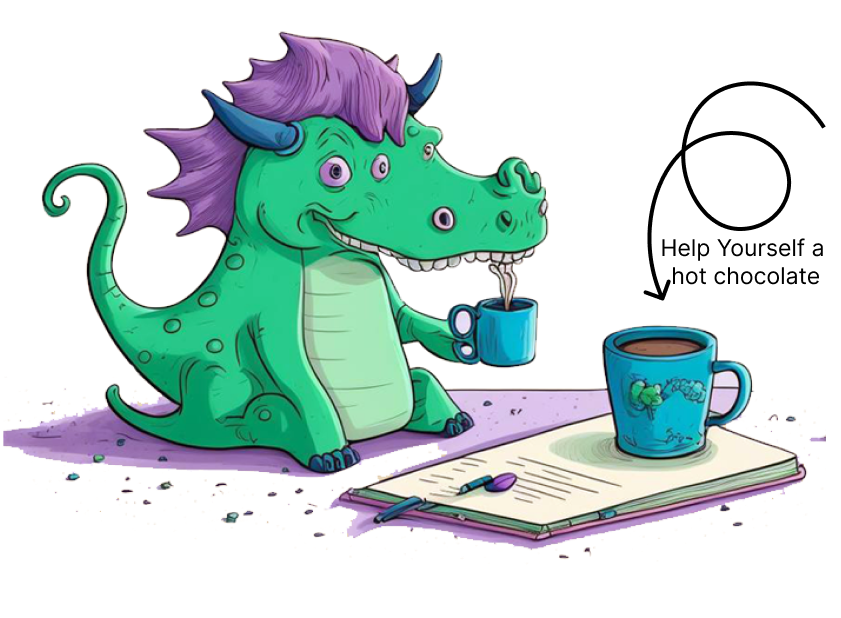
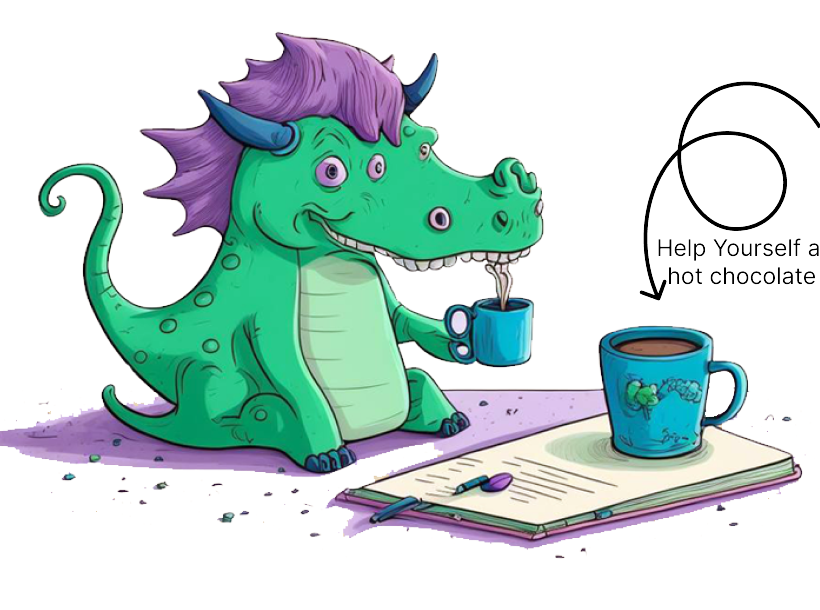
regbutton map responsive adapted, minor retouch

Changed region(s): [[0.0, 0.0311, 1.0, 0.9033], [0.2439, 0.8098, 0.3049, 0.8721], [0.1524, 0.8098, 0.1829, 0.841]]

diff --git a/fenjan/static/fenjan/styles.css b/fenjan/static/fenjan/styles.css
@@ -6,6 +6,17 @@ html, body {
     background-color: #E0D8CD;
 }
 
+.main {
+    max-width: 100%;
+    width: 100%;
+    display: grid;
+    justify-items: center;
+}
+/* 
+* {
+    box-sizing: border-box;
+  }
+   */
 /* The alert message box */
 .stored_messages {
     position: absolute;
@@ -35,15 +46,12 @@ html, body {
     color: black;
   }
 
-.main {
-    width: 100%;
-    display: grid;
-    justify-items: center;
-}
-
 
 /* /////////////////////////////////////////////////////// */
 /* Page 1 */
+.dina-1m {
+    display: none;
+}
 
 .p1 {
     display: inline-grid;
@@ -152,10 +160,6 @@ img.Redo-icon {
 /* //////////////////////////////////////////////////////// */
 /* Page 3 */
 
-.p3 .dina-5m {
-    display: none;
-}
-
 .p3 {
     position: relative;
     display: inline-grid;
@@ -180,17 +184,8 @@ img.Redo-icon {
 .p3 .dina {
     grid-area: dina;
 }
-/* //////////////////////////////////////////////////////// */
 
-/* form, input, label, textarea, select { 
-    margin: 0;
-    padding: 0;
-    border: none;
-    font: inherit;
-    color: inherit;
-    background: none;
-    box-sizing: border-box;
-} */
+/* //////////////////////////////////////////////////////// */
 
 .p3 .registration {
     position: relative;
@@ -243,7 +238,7 @@ img.Redo-icon {
 }
 .p3 .registration .name-input {
     /* display: inline-block; */
-    position: relative;
+    /* position: relative; */
     grid-area: name;
     align-self: center;
     justify-self: center;
@@ -337,7 +332,6 @@ img.Redo-icon {
 }
 
 
-
 /* //////////////////////////////////////////////////////// */
 /* //////////////////////////////////////////////////////// */
 
@@ -354,7 +348,7 @@ img.Redo-icon {
         display: grid;
         justify-items: center;
     }
-    .side, .cups, .dina {
+    .side, .cups{
         display: none;
     }
 
@@ -408,10 +402,10 @@ img.Redo-icon {
         / 18rem 21rem;
     }
     
-    .p1 .dina-1m {
+    .p1 .dina {
         grid-area: dina-1m;
-        margin-top: 3.6rem;
         width: 18rem;
+        margin-top: 3.6rem;
     }
     .p1 .wellhead {
         grid-area: well;
@@ -457,7 +451,7 @@ img.Redo-icon {
     .p2 .intro {
         display: none;
     }
-    .p2 .dina-2m, .intro-2 {
+    .intro-2 {
         display: block;
     }
 
@@ -474,9 +468,10 @@ img.Redo-icon {
         text-align: justify;
         font-size: 1.5rem;
     }
-    .p2 .dina-2m {
+    .p2 .dina {
         /* display: inline; */
         grid-area: dina-2m;
+        width: 20rem;
         margin-top: 0rem;
         margin-left: -2rem;
         justify-self: end;
@@ -496,6 +491,7 @@ img.Redo-icon {
     .p3-m .dina-3m {
         /* display: inline; */
         grid-area: dina-3m;
+        width: 19rem;
         margin-top: 0rem;
         margin-left: 0rem;
         justify-self: end;
@@ -513,7 +509,7 @@ img.Redo-icon {
   
 /* //////////////////////////////////////////////////////// */
 /* Page 4m for Mobile */
-    .p4-m, .p4-m .dina-4m, .p4-m .intro-4m {
+    .p4-m, .p4-m .dina-4m, .intro-4m {
         display: inline-block;
     }
 
@@ -541,17 +537,14 @@ img.Redo-icon {
 
 /* /////////////////////////////////////////////////////// */
 /* Page 3 for mobile */
-    .p3 .dina-5m {
-        display: inline-block;
-    }
 
-    .p3 {
+.p3 {
         display: inline-grid;
         grid-template: inline-grid;
         grid-template: 
         "intro-3 intro-3" 17.5rem
         "dina-5m form" 30.6rem
-        "down down" 6rem
+        "down down" 2rem
         / 19rem 20rem;
     }
     .p3 p.intro {
@@ -564,10 +557,11 @@ img.Redo-icon {
         text-align: justify;
         font-size: 1.5rem;
     }
-    .p3 .dina-5m {
+    .p3 .dina {
         grid-area: dina-5m;
+        width: 19rem;
         margin-top: 10rem;
-        margin-left: -2rem;
+        margin-left: 0rem;
         justify-self: start;
     }
     
@@ -576,7 +570,7 @@ img.Redo-icon {
         grid-area: form;
         margin-top: 2rem;
         width: 19rem;
-        height: 31rem;
+        height: 28.5rem;
         font-size: 1.2rem;
         background-color: #899A83;
         border-radius: 5%;
@@ -619,13 +613,13 @@ img.Redo-icon {
         grid-area: nlabel;
         display: block;
         position: relative;
-        margin-top: 3rem;
+        margin-top: 1rem;
         margin-left: 2rem;
     }
     .p3 .registration .name-input {
         grid-area: name;
-        display: block;
-        position: relative;
+        /* display: block; */
+        /* position: relative; */
         align-self: center;
         justify-self: center;
         width: 15rem;
@@ -635,21 +629,23 @@ img.Redo-icon {
         grid-area: elabel;
         display: block;
         margin-left: 2rem;
+        margin-top: 1rem;
         align-self: center;
     }
     .p3 .registration .email-input { 
         grid-area: email;
-        display: block;
+        /* display: block; */
         width: 15rem;
         align-self: center;
         justify-self: center;
-        width: 15rem;
+        /* width: 15rem; */
         margin-left: 2rem;
     }
     .p3 .registration .keywords-label {
         grid-area: klabel;
         display: block;
         margin-left: 2rem;
+        margin-top: 1rem;
         align-self: center;
     }
     .p3 .registration .keywords-input {
@@ -701,55 +697,10 @@ img.Redo-icon {
         grid-area: down;
         position: absolute;
         margin-left: 8rem;
-        bottom: -1.2rem;
+        bottom: -1.02rem;
         font-size: 1rem;
         color: #FFFFFF;
         z-index: 2;
-    }
-    /* .p1 .dina, .p1 .wellhead, .p1 .underhead, .p1 .intro, .p1 .developer, */
-    /* .p2 .dina, .p2 .intro, */
-    /* .p3 .dina, .p3 .intro, .p3 .registration, .p3 .down, */
-    /* .p3 .intro, .p3 .registration, .p3 .down,
-    .copyright {
-      width: 20%;
-      margin: 2rem 0;
-      text-align: center;
-      justify-self: center;
-    }
-  
-    .p3 .registration {
-      grid-template: none;
-      display: flex;
-      flex-direction: column;
-      align-items: center;
-      height: auto;
-      padding: 2rem 1rem;
-    }
-  
-    .p3 .registration {
-      width: 20%;
-      margin-bottom: 1rem;
-    }
-  
-    .p3 .registration .name-label,
-    .p3 .registration .email-label,
-    .p3 .registration .keywords-label {
-      margin: 1rem 0 0.5rem 0;
-      text-align: left;
-      width: 20%;
-    }
-  
-    .p3 .down,
-    .p3 p.copyright {
-      width: 40%;
-      position: static;
-      margin: 1rem auto;
-      text-align: center;
-    }
-   */
-    .stored_messages {
-      width: 20%;
-      font-size: 1.6rem;
     }
   }
   

diff --git a/fenjan/templates/fenjan/layout.html b/fenjan/templates/fenjan/layout.html
@@ -38,7 +38,6 @@
         <h2 class="underhead">Your beloved dinosaur that helps you to find your desired positions, while you enjoy a cup
             of coffee.</h2>
         <img class="dina" src="{% static 'fenjan/src/images/mascots/Reciption dina-P1-D.png' %}" alt="Malang Dina">
-        <img class="dina-1m" src="{% static 'fenjan/src/images/mascots/Reception dina-P1-M.png' %}" alt="Malang Dina">
         <p class="intro">
             Fenajan is a tool designed to assist you in finding your dream job, Ph.D. position or any right to the point
             post.
@@ -75,7 +74,6 @@
     <section class="p2">
         <img class="side" src="{% static 'fenjan/src/images/Side-P2-D.png' %}" alt="Left Cloud">
         <img class="dina" src="{% static 'fenjan/src/images/mascots/Guide dina-P2-D.png' %}" alt="Guide Dina">
-        <img class="dina-2m" src="{% static 'fenjan/src/images/mascots/Guide dina-2-M.png' %}" alt="Guide Dina 2M">
         <p class="intro-2">
             Fenajan is a tool designed to assist you in finding your dream job, Ph.D. position or any right to the point
             post.
@@ -118,15 +116,15 @@
         <img class="side" src="{% static 'fenjan/src/images/Side-P3-D.png' %}" alt="Right Cloud">
         <img class="dina" src="{% static 'fenjan/src/images/mascots/Secretary dina-P3-D.png' %}" alt="Secretary Dina"
             usemap="#regbutton">
-        <img class="dina-5m" src="{% static 'fenjan/src/images/mascots/Secretary dina-P3-M.png' %}" alt="Secretary Dina"
-            usemap="#regbutton-m">
         <map class="regbutton" name="regbutton">
             <area href="" onclick="submitForm(event); return false;" target="" alt="Hot Chocolate" title="Hot Chocolate"
-                coords="604,341,633,325,673,325,709,333,
-                        718,343,715,363,740,361,750,374,752,397,743,413,726,422,709,428,706,448,684,457,654,458,632,455,618,
-                        446,617,429,607,380" shape="poly">
+                coords="600,300,710,460" shape="rect">
+            <area href="" onclick="submitForm(event); return false;" target="" alt="Hot Chocolate" title="Hot Chocolate"
+                coords="138,75,168,105" shape="rect">
             <area href="{% url 'admin:index' %}" target="" alt="Dark Chocolate" title="Dark Chocolate"
-                coords="480,305,534,363" shape="rect">
+                coords="470,300,530,360" shape="rect">
+            <area href="{% url 'admin:index' %}" target="" alt="Dark Chocolate" title="Dark Chocolate"
+                coords="108,68,125,85" shape="rect">
         </map>
         <p class="intro">
             Fill out this form if you want to receive a 3 day free trial of personalized email based on your keywords.
